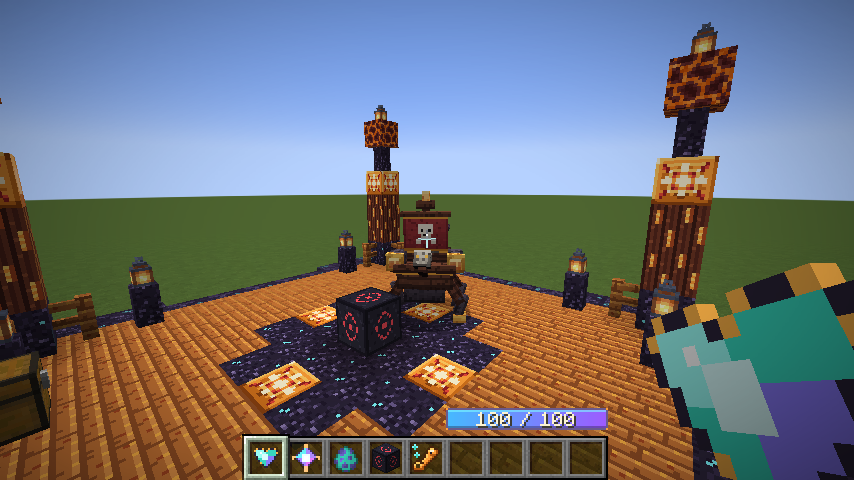
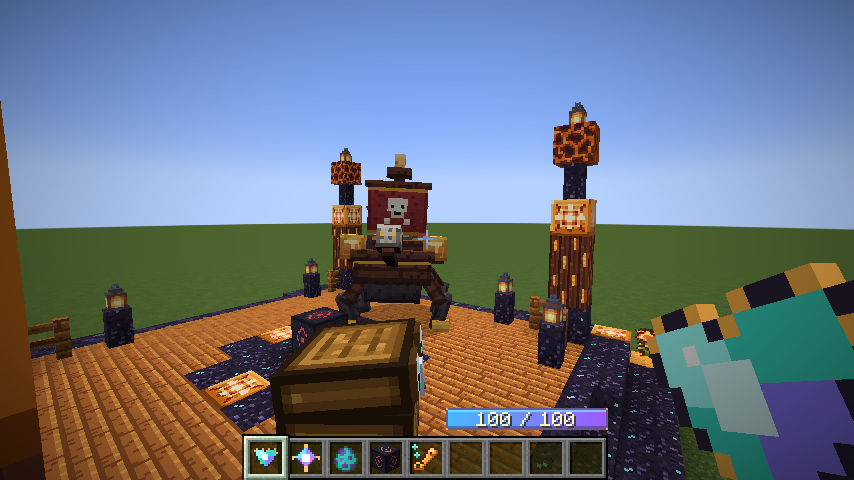
Captain Brimstone Stage 3: Scale boss to 1.65x (2.8x4.2 hitbox)

diff --git a/src/main/java/com/silkpanda/artilian/registry/ArtilianEntities.java b/src/main/java/com/silkpanda/artilian/registry/ArtilianEntities.java
@@ -186,11 +186,11 @@ public class ArtilianEntities {
                     .clientTrackingRange(12)
                     .build("crystal_colossus"));
 
-    /** Captain Brimstone: magma-forged Fire/Shadow pirate captain boss of Emberbloom Meadows. */
+    /** Captain Brimstone: magma-forged Fire/Shadow pirate galleon-walker boss of Emberbloom Meadows. */
     public static final DeferredHolder<EntityType<?>, EntityType<CaptainBrimstoneEntity>> CAPTAIN_BRIMSTONE =
             ENTITY_TYPES.register("captain_brimstone", () -> EntityType.Builder.of(CaptainBrimstoneEntity::new, MobCategory.MONSTER)
-                    .sized(2.0F, 3.4F)
-                    .eyeHeight(2.85F)
+                    .sized(2.8F, 4.2F)
+                    .eyeHeight(3.2F)
                     .clientTrackingRange(12)
                     .build("captain_brimstone"));
 

diff --git a/src/main/java/com/silkpanda/artilian/client/CaptainBrimstoneRenderer.java b/src/main/java/com/silkpanda/artilian/client/CaptainBrimstoneRenderer.java
@@ -9,7 +9,8 @@ import software.bernie.geckolib.renderer.layer.AutoGlowingGeoLayer;
 public class CaptainBrimstoneRenderer extends GeoEntityRenderer<CaptainBrimstoneEntity> {
     public CaptainBrimstoneRenderer(EntityRendererProvider.Context context) {
         super(context, new TrainingGolemModel<>("captain_brimstone"));
-        this.shadowRadius = 1.25F;
+        this.shadowRadius = 1.9F;
+        this.withScale(1.65F);
         this.addRenderLayer(new AutoGlowingGeoLayer<>(this));
     }
 }
